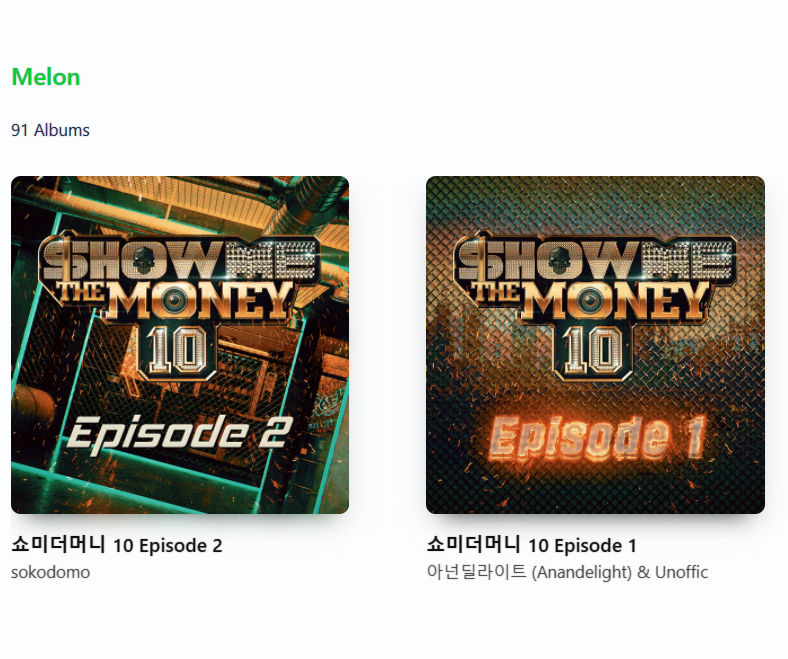
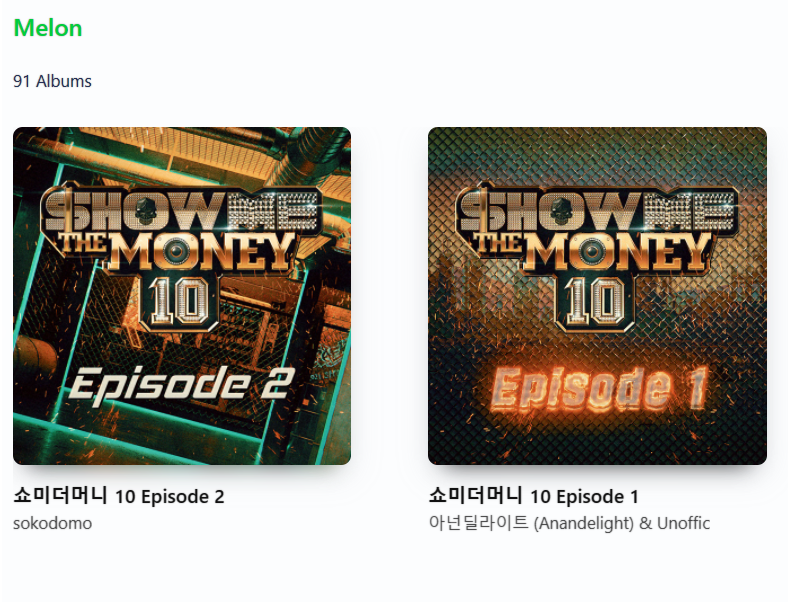
next Image 컴포넌트 이용하는 방식으로 수정

diff --git a/src/components/@organisms/Features/index.js b/src/components/@organisms/Features/index.js
@@ -3,6 +3,7 @@ import LinkHOC from '@atoms/LinkHOC';
 import Text from '@atoms/Text';
 import Title from '@atoms/Title';
 import { Button, Col, Row } from 'antd';
+import Image from 'next/image';
 import { BiWorld } from 'react-icons/bi';
 import { BsFillPlayFill } from 'react-icons/bs';
 import { FeatureContainer } from './style';
@@ -13,14 +14,14 @@ const Features = () => {
       <Row gutter={32}>
         <Col md={5} className="chart-column">
           <FlexColumn gutter={[16, 22]}>
-            <img src="./img/feature_chart.png" />
-            <img src="./img/feature_albums.png" className="albums" />
+            <Image src="/img/feature_chart.png" width={2128} height={1635} />
+            <Image src="/img/feature_albums.png" className="albums" width={788} height={602} />
           </FlexColumn>
         </Col>
         <Col md={4}>
           <FlexColumn gutter={[16, 32]} className="play-column">
-            <img src="./img/feature_player.png" />
-            <img src="./img/feature_album.png" />
+            <Image src="/img/feature_player.png" width={818} height={992} />
+            <Image src="/img/feature_album.png" width={1719} height={1267} />
           </FlexColumn>
         </Col>
         <Col md={2}></Col>

diff --git a/src/components/@organisms/Features/style.js b/src/components/@organisms/Features/style.js
@@ -1,3 +1,4 @@
+import { FlexColumn } from '@atoms/FlexColumn/style';
 import { Span } from '@atoms/Text/style';
 import { Headings } from '@atoms/Title/style';
 import { SlideUp } from '@components/KeyFrames';
@@ -7,6 +8,18 @@ export const FeatureContainer = styled.section`
   animation-name: ${SlideUp};
   animation-duration: 1s;
   position: relative;
+
+  ${FlexColumn} {
+    > div {
+      border-radius: 8px;
+      box-shadow: rgba(0, 0, 0, 0.16) 0px 10px 36px 0px, rgba(0, 0, 0, 0.06) 0px 0px 0px 1px;
+      z-index: 3;
+
+      img {
+        padding: 8px;
+      }
+    }
+  }
 
   .chart-column {
     display: flex;
@@ -60,13 +73,6 @@ export const FeatureContainer = styled.section`
     }
   }
 
-  & img {
-    width: 100%;
-    padding: 8px;
-    border-radius: 14px;
-    box-shadow: rgba(0, 0, 0, 0.16) 0px 10px 36px 0px, rgba(0, 0, 0, 0.06) 0px 0px 0px 1px;
-    z-index: 3;
-  }
   & img.albums {
     padding-top: 0px;
   }
